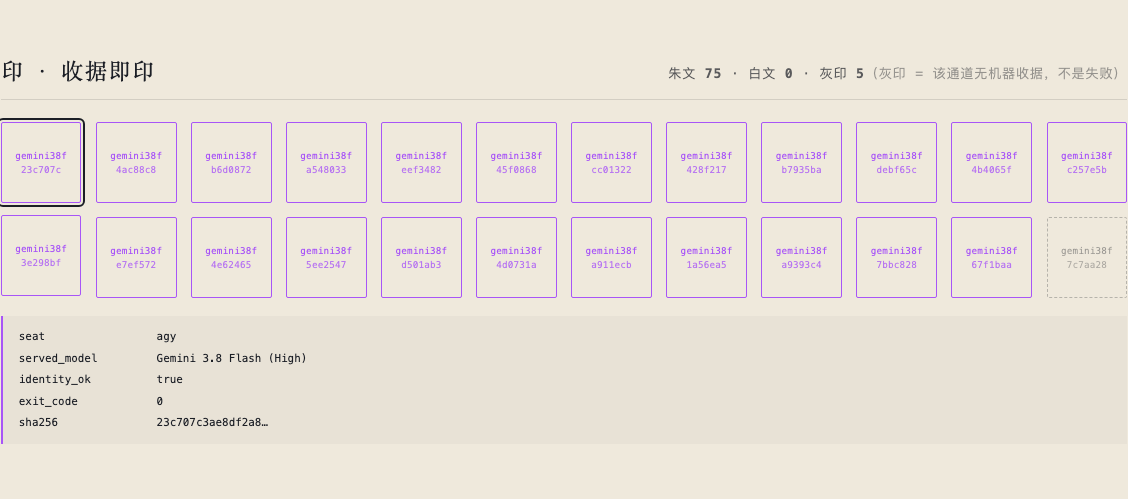
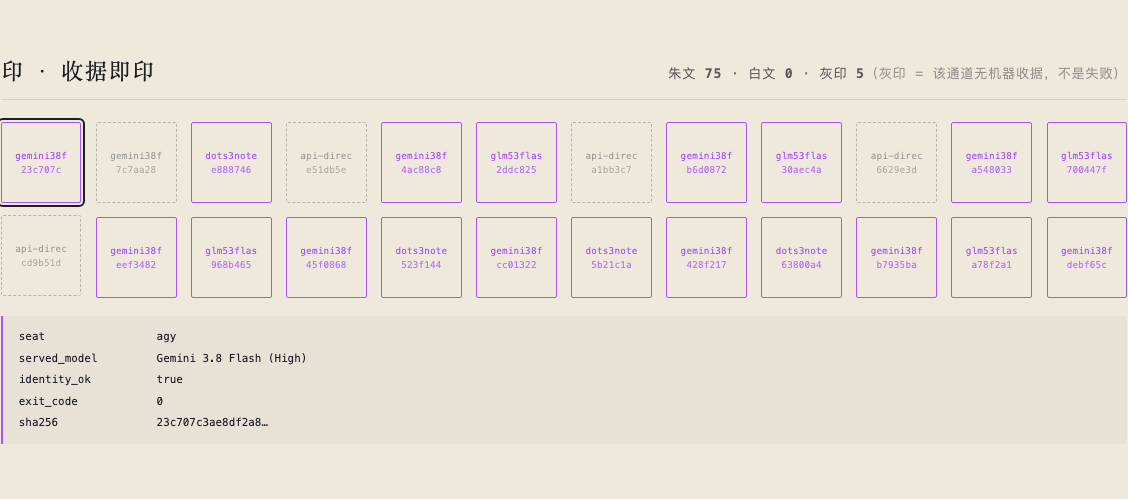
fix(nexus-hall): 印阵跨席位x三态交错取样
直接 slice(0,24) 让前 24 枚全来自同一席（印文去重只剩 gemini38f），
灰印等稀有态因排序整类消失。改分组轮转：4 种印文 + 灰印 5 枚全取到。
判据：展示子集前先问「哪一类会因排序而整类消失」——尤其当那类最有信息量。

diff --git a/docs/local-cmd/NEXUS-HALL-INDEX.md b/docs/local-cmd/NEXUS-HALL-INDEX.md
@@ -3,7 +3,7 @@
 > 本文是本楼唯一 ACTIVE TODO。冲突时：**live Git / 隔离栈 / 日志 > 本文 > 任何旧看板**。
 > 目标：`/world/agent-nexus/`「墨迹 · Ink Ledger」——水墨物理承载真实 agent 会话元数据。
 > 设计 SSOT = `NEXUS-HALL-DRAFT-2026-09-03.md`；施工 SSOT = `NEXUS-HALL-CHARTER-2026-09-04.md`。
-> 更新 2026-09-04 06:14 · 分支 `codex/nexus-hall-20260903` · worktree `~/studio-data-root/worktrees/website-nexus-hall` · base `codex/about-hall-20260902@f942a22` · 上次合流 — · 人测窗口 none
+> 更新 2026-09-04 06:40 · 分支 `codex/nexus-hall-20260903` · worktree `~/studio-data-root/worktrees/website-nexus-hall` · base `codex/about-hall-20260902@f942a22` · 上次合流 — · 人测窗口 none
 
 ## 状态机
 
@@ -25,7 +25,7 @@
 | NX-W3r | W3 | suminagashi 数学 + 时间序列艺术化 + scrubber 交互调研 | agy | 同上 | — | 单滴变换公式可实现 | PLANNED（W3 已先行，调研转为验证性） |
 | NX-W3 | W3 | S0 洇 + S1 墨流 + 印抽屉 | 执行方 | `halls/nexus/{Yin,Flow,Seal,Drawer}.*` | W1, W2, W3r | 10s 脚本成立；数字全 ledger 渲染 | **BUILT**（S0 洇 Yin + S1 墨流 Flow + 雏形页串联，均部署态自证；印抽屉待 W4 印章调研，五跋正文待磊哥） |
 | NX-W4r | W4 | 手卷横向叙事 + 中文排版 + 印章设计调研 | agy | 同上 | — | 移动端退化方案明确 | PLANNED |
-| NX-W4 | W4 | 手卷 + 五跋 + 试墨 + 收官 | 执行方 | `halls/nexus/{Scroll,Colophon,Trial,Epilogue}.*` | W3, W4r | C 维 100% 绑定；干纸拒墨可见 | PLANNED |
+| NX-W4 | W4 | 手卷 + 五跋 + 试墨 + 收官 | 执行方 | `halls/nexus/{Scroll,Colophon,Trial,Epilogue}.*` | W3, W4r | C 维 100% 绑定；干纸拒墨可见 | **BUILT**（印 Seal 已落地：三态严格对应机器收据、共享抽屉、跨席交错取样；手卷与五跋待磊哥正文） |
 | NX-W5r | W5 | Astro hall 路由/主题作用域 + 构建期 WebGL 截图坑调研 | agy | 同上 | — | SSIM 门做法明确 | PLANNED |
 | NX-W5 | W5 | 接线 + 三个门脚本 + e2e + 海报 + sitemap | 执行方 | §3.3 热点文件 + `scripts/` + `e2e/` | W4, W5r | 城里 E 进楼；about-hall e2e 不回归 | PLANNED |
 | NX-W6 | W6 | 全量 e2e + 盲审双评 + PR + handoff | 执行方 + agy/xhsapi 批评者 | `evidence/nexus-hall/W6/` | 全部 | 人门三维 ≥7 | PLANNED |
